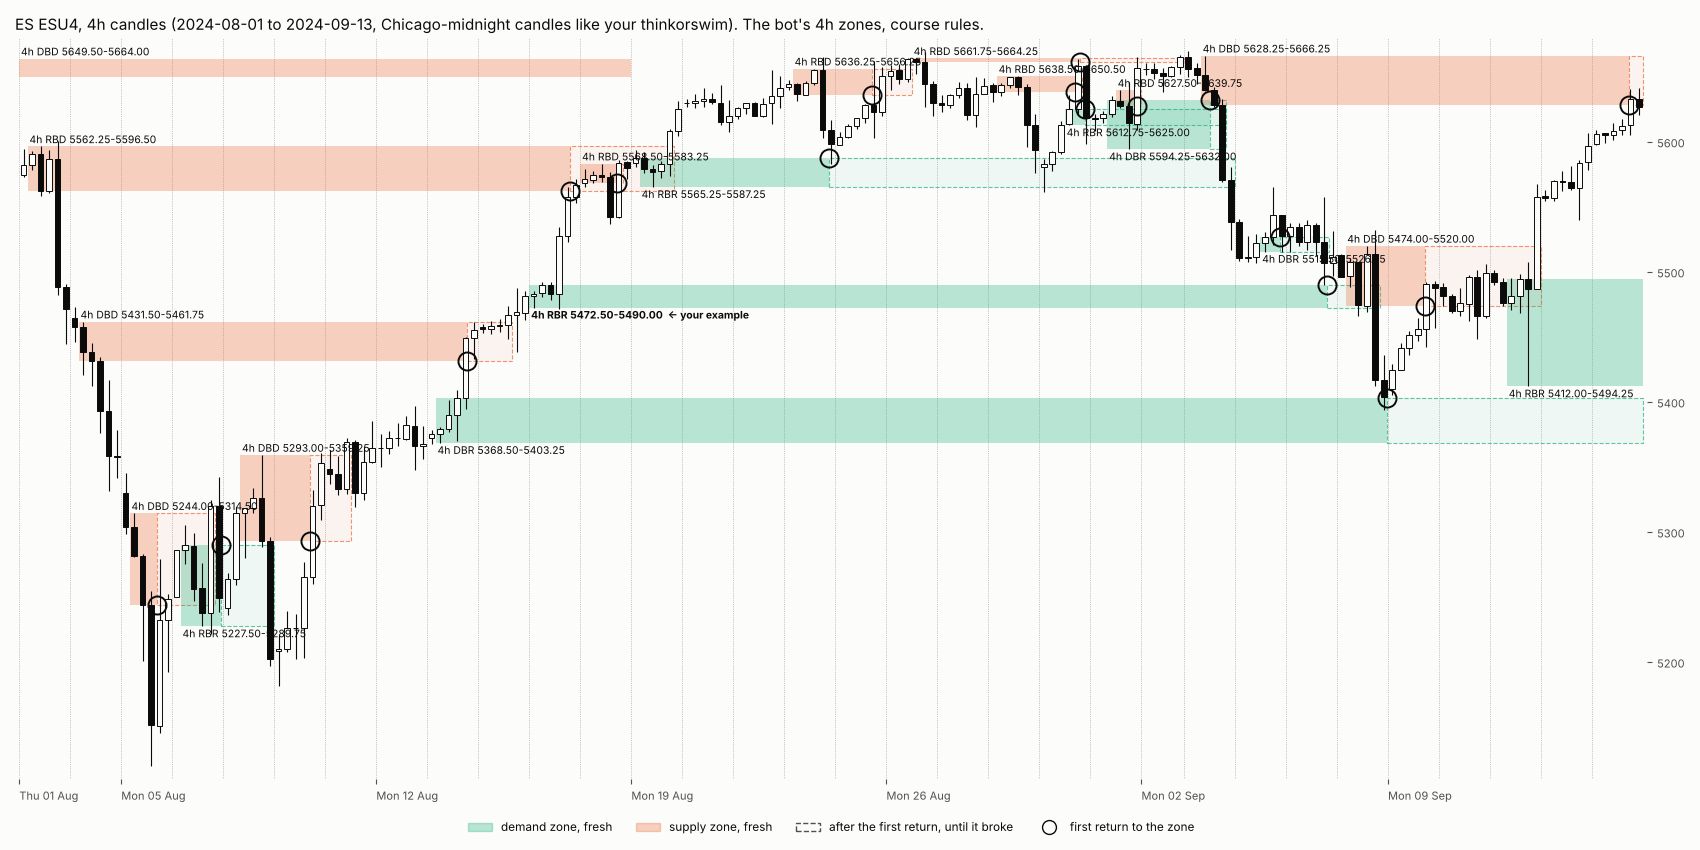
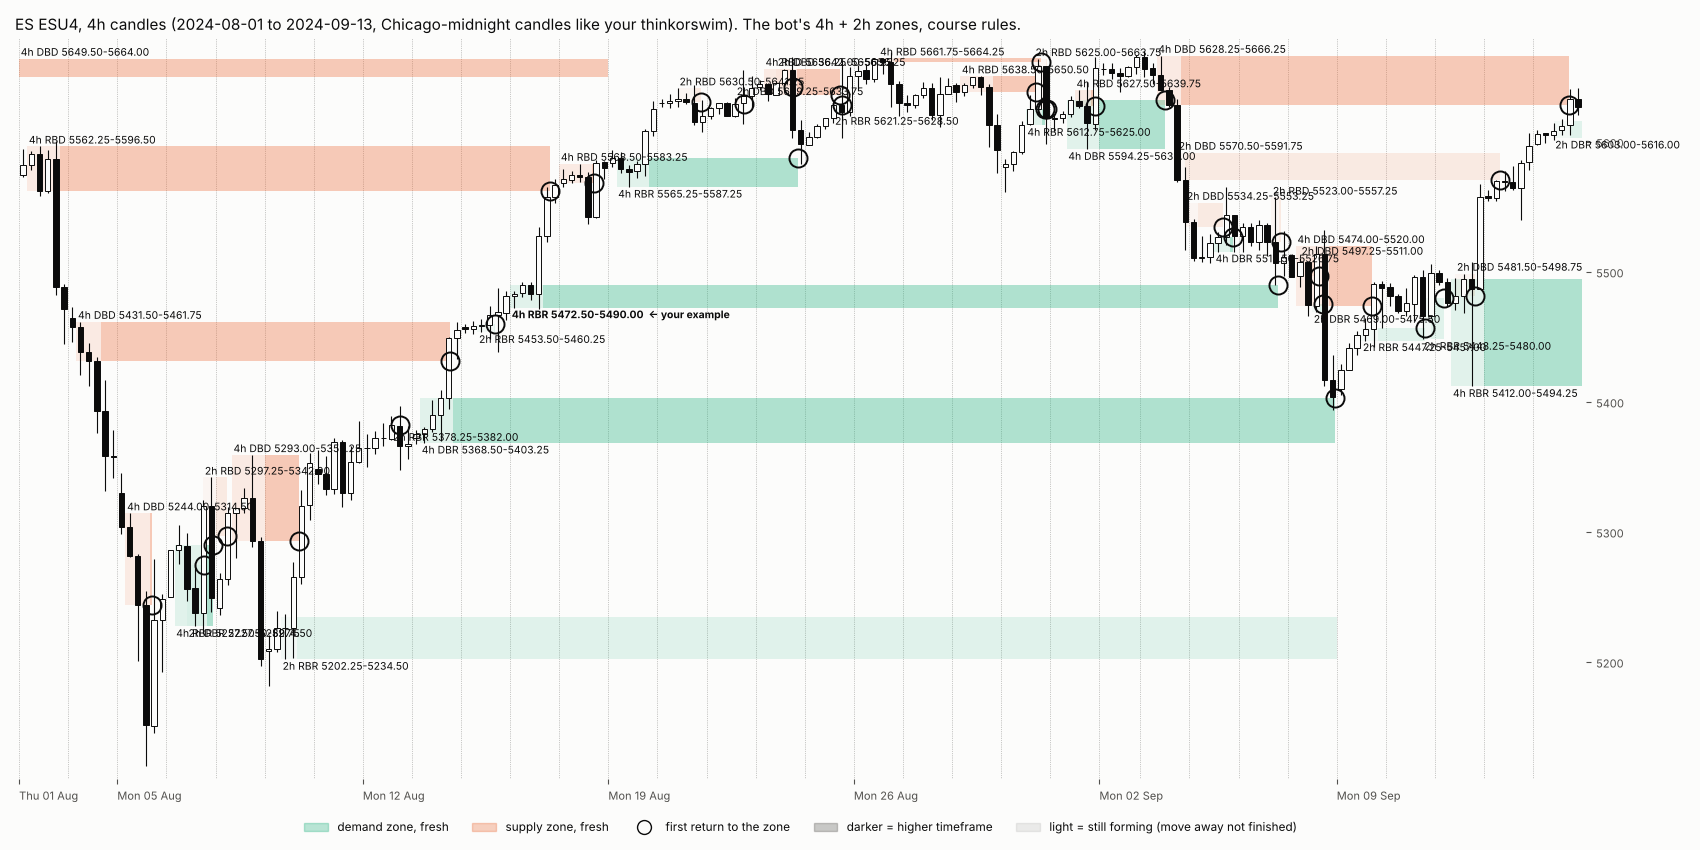
Zones on the owner's five timeframes; overlapping zones keep the higher timeframe
Owner: valid timeframes are 4h, 2h, 1h, 30m and 15m, and overlapping zones
should be avoided; where a zone shows on a lower and a higher timeframe, the
higher one counts. research/zones.py resolve_overlaps applies that without
look-ahead. Charts redrawn on 30-minute candles; STRATEGY.md 1b and section 5
updated.

Claude-Session: https://claude.ai/code/session_01N29xgAnLPezvkb9otybUM8

diff --git a/research/zone_course_chart.py b/research/zone_course_chart.py
@@ -1,13 +1,17 @@
 """Draw the bot's course-style supply/demand zones (research.zones) on candles, for the owner to check.
 
-Each zone is shaded from its base to the first time price came back to its near edge
-(fresh), then drawn as a faint outline until it broke (a candle on its timeframe closed
-beyond the far edge) or the chart ends. The first return is circled, as in the course.
-Zones that expired untested (older than max_age_days) are not drawn past their expiry.
+Each zone is shaded lightly from its base until the move away finished (the bot only
+knows the zone from then on), then fully until price first came back to its near edge. The first return is circled, as in the course. Zones that expired untested
+(older than max_age_days) are not drawn past their expiry. Zones a higher-timeframe zone
+later formed over are left off: the chart shows the zones as marked in hindsight.
 Prices are in the contract of the chart's last day; times are Eastern.
 
+Overlapping zones are already resolved (research.zones.resolve_overlaps): the higher
+timeframe wins, and a lower-timeframe zone that a higher one formed over just stops.
+Darker shading = higher timeframe.
+
 Run from the repo root:
-    python -m research.zone_course_chart 2024-08-01 2024-09-13 240 [zone timeframes, e.g. 240 or 60,240]
+    python -m research.zone_course_chart 2024-09-23 2024-09-27 30 [zone timeframes, default all]
 """
 
 from __future__ import annotations
@@ -30,7 +34,7 @@ from research.settings import load_settings  # noqa: E402
 from research.zones import all_zones  # noqa: E402
 
 DEMAND, SUPPLY = "#1baf7a", "#eb6834"
-NAMES = {60: "1h", 240: "4h", 15: "15m", 30: "30m", 1440: "daily"}
+NAMES = {15: "15m", 30: "30m", 60: "1h", 120: "2h", 240: "4h"}
 
 
 def es_zones(s: dict):
@@ -58,7 +62,8 @@ def draw(first: str, last: str, tf: int, zone_tfs: list[int], s: dict, sessions,
         return i - 0.5 + min(max((t - starts[i]) / (tf * 60), 0), 1)
 
     lo_view, hi_view = px(c["low"].min()) - 10, px(c["high"].max()) + 10
-    live = z[z["timeframe"].isin(zone_tfs) & (z["created"] < t1) & (z["fresh_until"] > t0)]
+    live = z[z["timeframe"].isin(zone_tfs) & (z["created"] < t1) & (z["fresh_until"] > t0)
+             & (z["ended"] != "replaced by a higher timeframe")]
     live = live[(px(live["high"]) >= lo_view) & (px(live["low"]) <= hi_view)]
 
     fig, ax = plt.subplots(figsize=(17, 8.5), dpi=100, facecolor=SURFACE)
@@ -68,19 +73,17 @@ def draw(first: str, last: str, tf: int, zone_tfs: list[int], s: dict, sessions,
         zl, zh = px(r.low), px(r.high)
         a = xi(max(r.base_start, t0))
         b = xi(min(r.fresh_until, t1))
-        e = xi(min(r.broken, t1)) if r.first_touch == r.fresh_until else b    # tested: outline until it broke
-        strong = 0.30 if r.timeframe == max(zone_tfs) else 0.16
-        ax.add_patch(Rectangle((a, zl), b - a, zh - zl, color=colour, alpha=strong, lw=0, zorder=1))
-        if e > b:
-            ax.add_patch(Rectangle((b, zl), e - b, zh - zl, facecolor=colour, alpha=0.06, lw=0, zorder=1))
-            ax.add_patch(Rectangle((b, zl), e - b, zh - zl, fill=False, edgecolor=colour, lw=0.8, ls="--",
-                                   alpha=0.7, zorder=1))
-        if r.first_touch == r.fresh_until and r.first_touch < t1:
+        rank = sorted(zone_tfs).index(r.timeframe) / max(len(zone_tfs) - 1, 1)   # 0 = lowest timeframe
+        strong = 0.12 + 0.22 * rank
+        m = xi(min(max(r.created, t0), t1))                                   # the move away finished here
+        ax.add_patch(Rectangle((a, zl), m - a, zh - zl, color=colour, alpha=strong * 0.35, lw=0, zorder=1))
+        ax.add_patch(Rectangle((m, zl), b - m, zh - zl, color=colour, alpha=strong, lw=0, zorder=1))
+        if r.ended == "tested" and r.first_touch < t1:
             ax.plot(xi(r.first_touch), px(r.near), "o", ms=13, mfc="none", mec=INK, mew=1.4, zorder=5)
         mine = highlight is not None and abs(zl - highlight[0]) < 1 and abs(zh - highlight[1]) < 1
         label = f"{NAMES.get(r.timeframe, r.timeframe)} {r.pattern} {zl:.2f}-{zh:.2f}" + ("  <- your example" if mine else "")
-        y = min(zh + 0.6, hi_view - 4) if r.kind == "supply" else max(zl - 0.6, lo_view + 4)
-        ax.text(a + 0.2, y, label, fontsize=7.5,
+        y = min(zh + 0.3, hi_view - 2) if r.kind == "supply" else max(zl - 0.3, lo_view + 2)
+        ax.text(a + 0.2, y, label, fontsize=6.5 if len(zone_tfs) > 2 else 7.5,
                 va="bottom" if r.kind == "supply" else "top", color=INK, zorder=6,
                 fontweight="bold" if mine else "normal")
 
@@ -106,10 +109,11 @@ def draw(first: str, last: str, tf: int, zone_tfs: list[int], s: dict, sessions,
         sp.set_visible(False)
     handles = [Patch(color=DEMAND, alpha=0.3, label="demand zone, fresh"),
                Patch(color=SUPPLY, alpha=0.3, label="supply zone, fresh"),
-               Patch(facecolor="none", edgecolor=MUTED, ls="--", label="after the first return, until it broke"),
-               Line2D([], [], marker="o", ls="none", mfc="none", mec=INK, ms=10, label="first return to the zone")]
-    ax.legend(handles=handles, loc="upper center", bbox_to_anchor=(0.5, -0.04), fontsize=8.5, frameon=False,
-              labelcolor=INK, ncol=4)
+               Line2D([], [], marker="o", ls="none", mfc="none", mec=INK, ms=10, label="first return to the zone"),
+               Patch(color=MUTED, alpha=0.3, label="darker = higher timeframe"),
+               Patch(color=MUTED, alpha=0.1, label="light = still forming (move away not finished)")]
+    ax.legend(handles=handles[:3] + (handles[3:] if len(zone_tfs) > 1 else []), loc="upper center",
+              bbox_to_anchor=(0.5, -0.04), fontsize=8.5, frameon=False, labelcolor=INK, ncol=5)
     tfs = " + ".join(NAMES.get(m, str(m)) for m in zone_tfs)
     ax.set_title(f"ES {contract}, {NAMES.get(tf, tf)} candles ({first} to {last}, Chicago-midnight candles like your "
                  f"thinkorswim). The bot's {tfs} zones, course rules.", color=INK, loc="left", fontsize=11)
@@ -125,8 +129,8 @@ def draw(first: str, last: str, tf: int, zone_tfs: list[int], s: dict, sessions,
 def main() -> None:
     first, last = sys.argv[1], sys.argv[2]
     tf = int(sys.argv[3]) if len(sys.argv) > 3 else 240
-    zone_tfs = [int(v) for v in sys.argv[4].split(",")] if len(sys.argv) > 4 else [tf]
     s = load_settings()
+    zone_tfs = [int(v) for v in sys.argv[4].split(",")] if len(sys.argv) > 4 else s["zones"]["timeframes_minutes"]
     _, sessions, z, candles = es_zones(s)
     draw(first, last, tf, zone_tfs, s, sessions, z, candles)
 

diff --git a/research/zones.py b/research/zones.py
@@ -16,6 +16,12 @@ A zone is fresh until price first trades back to its near edge (the first return
 trade). It is broken when a candle on its own timeframe closes beyond the far edge, and
 expires if price has not come back within max_age_days (owner: about a month).
 
+No overlapping zones (owner, Oct 2026): where zones overlap, the higher timeframe wins
+(4h > 2h > 1h > 30m > 15m). A zone that would form over a fresh zone of a higher (or the
+same) timeframe is not marked. A fresh lower-timeframe zone stops counting once a
+higher-timeframe zone forms over it (the lower one usually appears first, inside the
+higher one's base).
+
 Candles are aligned like the owner's thinkorswim charts: buckets from midnight Chicago
 time (a 4-hour chart has candles at 00, 04, 08, 12, 16 (17:00 open) and 20 CT), and a
 candle never spans two sessions. Prices are adjusted ticks (research.market_data), times
@@ -113,9 +119,37 @@ def zone_status(zones: pd.DataFrame, bars: pd.DataFrame, candles: dict[int, pd.D
     return z
 
 
+def resolve_overlaps(zones: pd.DataFrame) -> pd.DataFrame:
+    """Keep one zone per price area: the higher timeframe, then the earlier zone. Adds `ended`.
+
+    Needs fresh_until (zone_status). Two zones overlap when their price ranges share a tick
+    while both are fresh.
+    """
+    z = zones.sort_values(["timeframe", "created"], ascending=[False, True]).reset_index(drop=True)
+    lo, hi = z["low"].to_numpy(), z["high"].to_numpy()
+    tf, cr = z["timeframe"].to_numpy(), z["created"].to_numpy()
+    fu = z["fresh_until"].to_numpy().copy()
+    keep = np.zeros(len(z), bool)
+    replaced = np.full(len(z), np.inf)
+    for i in range(len(z)):
+        prev = np.nonzero(keep[:i])[0]                     # kept so far: higher timeframes, or same and earlier
+        prev = prev[(lo[prev] <= hi[i]) & (hi[prev] >= lo[i])]
+        if ((cr[prev] <= cr[i]) & (fu[prev] > cr[i])).any():
+            continue                                       # forms over a fresh zone that counts more
+        later = prev[(tf[prev] > tf[i]) & (cr[prev] > cr[i]) & (cr[prev] < fu[i])]
+        if len(later):
+            replaced[i] = fu[i] = cr[later].min()          # a higher-timeframe zone formed over it
+        keep[i] = True
+    z["fresh_until"] = fu
+    z["replaced"] = replaced
+    z["ended"] = np.select([fu == replaced, fu == z["first_touch"], fu == z["broken"], fu == z["expires"]],
+                           ["replaced by a higher timeframe", "tested", "broken", "expired"], "data ended")
+    return z[keep].sort_values("created").reset_index(drop=True)
+
+
 def all_zones(bars: pd.DataFrame, s: dict) -> tuple[pd.DataFrame, dict[int, pd.DataFrame]]:
-    """Zones on every timeframe in [zones] timeframes_minutes, with first touch and break times."""
+    """Zones on every timeframe in [zones] timeframes_minutes, overlaps resolved, with first touch and break times."""
     z = s["zones"]
     candles = {m: make_candles(bars, m, z["candle_clock_tz"]) for m in z["timeframes_minutes"]}
     found = pd.concat([find_zones(candles[m], m, z) for m in z["timeframes_minutes"]], ignore_index=True)
-    return zone_status(found, bars, candles, z["max_age_days"]), candles
+    return resolve_overlaps(zone_status(found, bars, candles, z["max_age_days"])), candles

diff --git a/tests/test_zones.py b/tests/test_zones.py
@@ -84,3 +84,25 @@ def test_candles_start_at_chicago_midnight():
     assert list(c["label"].dt.strftime("%H:%M")) == ["00:00", "04:00"]
     assert c["start"].iat[1] == pd.Timestamp("2024-08-15 09:00", tz="UTC").timestamp()
     assert c["start"].iat[0] == pd.Timestamp("2024-08-15 05:00", tz="UTC").timestamp()
+
+
+def _zone(tf, low, high, created, fresh_until):
+    return dict(timeframe=tf, low=low, high=high, created=created, fresh_until=fresh_until,
+                first_touch=fresh_until, broken=np.inf, expires=np.inf)
+
+
+def test_overlapping_zones_keep_the_higher_timeframe():
+    from research.zones import resolve_overlaps
+    z = pd.DataFrame([
+        _zone(240, 10, 20, 100, 500),     # 4h zone, fresh from 100 to 500
+        _zone(60, 15, 18, 200, 450),      # forms inside the fresh 4h zone: not marked
+        _zone(60, 12, 14, 50, 400),       # fresh 1h zone the 4h zone forms over at 100: ends there
+        _zone(60, 16, 19, 600, 700),      # forms after the 4h zone was used: kept
+        _zone(60, 30, 35, 10, 300),       # elsewhere: kept
+        _zone(60, 33, 40, 50, 310),       # same timeframe, over the earlier fresh zone: not marked
+    ])
+    out = resolve_overlaps(z).set_index(["timeframe", "low"])
+    assert sorted(out.index) == [(60, 12), (60, 16), (60, 30), (240, 10)]
+    assert out.loc[(60, 12), "fresh_until"] == 100
+    assert out.loc[(60, 12), "ended"] == "replaced by a higher timeframe"
+    assert out.loc[(60, 16), "ended"] == "tested"

diff --git a/STRATEGY.md b/STRATEGY.md
@@ -54,7 +54,8 @@ Source A and source B (1e, the owner's current method) are both tested. The data
   - Drop-base-drop (continuation, forms in downtrends) and rally-base-drop (reversal) leave a **supply zone**. Sell the first rally into it.
 - **Strong move away:** there's no set size. Roughly, it's at least double the size of the last candle in the base.
 - **Fresh zones:** the best zones are fresh and untested: price has not been back since it left. They hold the most waiting orders. Look from right to left on the chart to find them.
-- **Chart:** higher timeframes. The course uses 1-hour and 4-hour zones (also daily and weekly) and trades them from a lower-timeframe chart (for example a 1-hour supply zone on a 15-minute chart). The owner's example below is a 4-hour zone.
+- **Timeframes (owner, Oct 2026):** 4-hour, 2-hour, 1-hour, 30-minute and 15-minute. A zone that shows on a higher timeframe is usually stronger. The course also trades a higher-timeframe zone from a lower-timeframe chart (for example a 1-hour supply zone on a 15-minute chart). The owner's example below is a 4-hour zone.
+- **No overlapping zones (owner, Oct 2026):** avoid them. If a zone can be marked on both a lower-timeframe and a higher-timeframe chart, the higher-timeframe zone is the one that counts.
 - **Lookback:** zones from up to about a month back. Untested zones from earlier days and weeks count (owner, Oct 2026). Looking only at zones made within the day misses most of them.
 - **Stop and target (course):** the stop goes just past the zone ("proper risk above the zone" for a short). Take profits at the opposite zone (a long from demand takes profit at supply).
 - **When a zone stops counting:**
@@ -72,7 +73,7 @@ Source A and source B (1e, the owner's current method) are both tested. The data
 
 **How the bot draws them (proposed, TBD until the owner checks them on charts).** Code: `research/zones.py`. Settings: `[zones]`.
 
-- **Candles:** 1-hour and 4-hour, starting at midnight Chicago time like the owner's thinkorswim charts. A candle never spans two sessions.
+- **Candles:** the owner's five timeframes, starting at midnight Chicago time like the owner's thinkorswim charts. A candle never spans two sessions.
 - **Base:** 1 to 3 candles in a row that all trade through one common price.
 - **Move away:** one candle that:
   - has a body at least double every base candle's body (the owner's rule above),
@@ -84,8 +85,13 @@ Source A and source B (1e, the owner's current method) are both tested. The data
   - The move-away candle's wick is left out, because on a news candle it can be huge.
 - **Fresh:** until price first trades back to the near edge. A zone expires untested after 31 days.
 - **Broken:** a candle on the zone's timeframe closes beyond the far edge.
-- **On 2024 ES data:** about 3 four-hour zones and 9 one-hour zones a week.
-  - Median height is 16.5 points (4-hour) and 10 points (1-hour).
+- **Overlaps (the owner's rule):** two zones overlap when their price ranges share a tick while both are fresh.
+  - The higher timeframe wins. On the same timeframe, the earlier zone wins.
+  - A zone that would form over a winning fresh zone is not marked.
+  - A fresh lower-timeframe zone stops counting when a higher-timeframe zone forms over it. The lower one usually shows up first, while the higher one's base is still forming.
+- **On 2024 ES data:** about 40 zones a week across the five timeframes, after overlaps.
+  - Per week: 3 four-hour, 3 two-hour, 4.5 one-hour, 11.5 thirty-minute and 18 fifteen-minute.
+  - Median height in points: 16.5 (4-hour), 11.25 (2-hour), 8.5 (1-hour), 4.75 (30-minute), 3.25 (15-minute).
   - About 1 in 5 four-hour zones is taller than 30 points, usually because a news candle is in the base.
 - **Charts for the owner to check:** `research/results/journal/zone_charts/course_zones_*.png`.
 
@@ -280,7 +286,8 @@ Every number below is an adjustable setting. The defaults come from this spec.
 | Recent POC lookback (1e) | 5 sessions | |
 | Covered POC rule (1e) | Next session's value area | A POC inside it no longer counts |
 | Value area | 70% of the session's volume | |
-| Supply/demand timeframes (1b) | 1-hour and 4-hour | Proposed, TBD. Candles start at midnight Chicago time |
+| Supply/demand timeframes (1b) | 4h, 2h, 1h, 30m, 15m | Owner. Candles start at midnight Chicago time |
+| Overlapping zones | The higher timeframe wins | Owner. Same timeframe: the earlier zone wins |
 | Supply/demand lookback | 1 month | An untested zone expires after 31 days |
 | Base | 1–3 candles through one common price | Proposed, TBD |
 | Strong move away | Body at least 2× every base candle's body | Plus a range at least 1.5× the last 20 candles' average (proposed, TBD) |

diff --git a/research/results/journal/REPORT.md b/research/results/journal/REPORT.md
@@ -429,8 +429,9 @@ The owner shared the supply and demand course they follow (rally-base-rally, dro
 - **The owner's example:** a 4-hour demand zone on ES, 14–15 Aug 2024.
   - The bot finds it at 5472.50–5490.00 in the Sep contract, which is 5533.25–5550.75 on the owner's back-adjusted thinkorswim chart. The zone top is the open of the red base candle, where the owner put the cursor.
   - First return: 5 Sep at 12:16 ET, to exactly 5490.00. Price bounced 37 points, came back overnight and bounced 20 more, then broke on the 6 Sep jobs report.
-- **On 2024 ES data:** about 3 four-hour and 9 one-hour zones a week.
-  - Median height is 16.5 points (4-hour) and 10 points (1-hour).
+- **The owner's timeframes and overlap rule:** 4h, 2h, 1h, 30m and 15m. Where zones overlap, the higher timeframe wins.
+- **On 2024 ES data:** about 40 zones a week after overlaps.
+  - Per week: 3 four-hour, 3 two-hour, 4.5 one-hour, 11.5 thirty-minute and 18 fifteen-minute.
   - Almost every zone gets its first return within the month; 1 in 8 four-hour zones expires untested.
 - **Not tested yet:** how often first returns hold. That waits until the owner confirms the zones look right on the charts.
 
